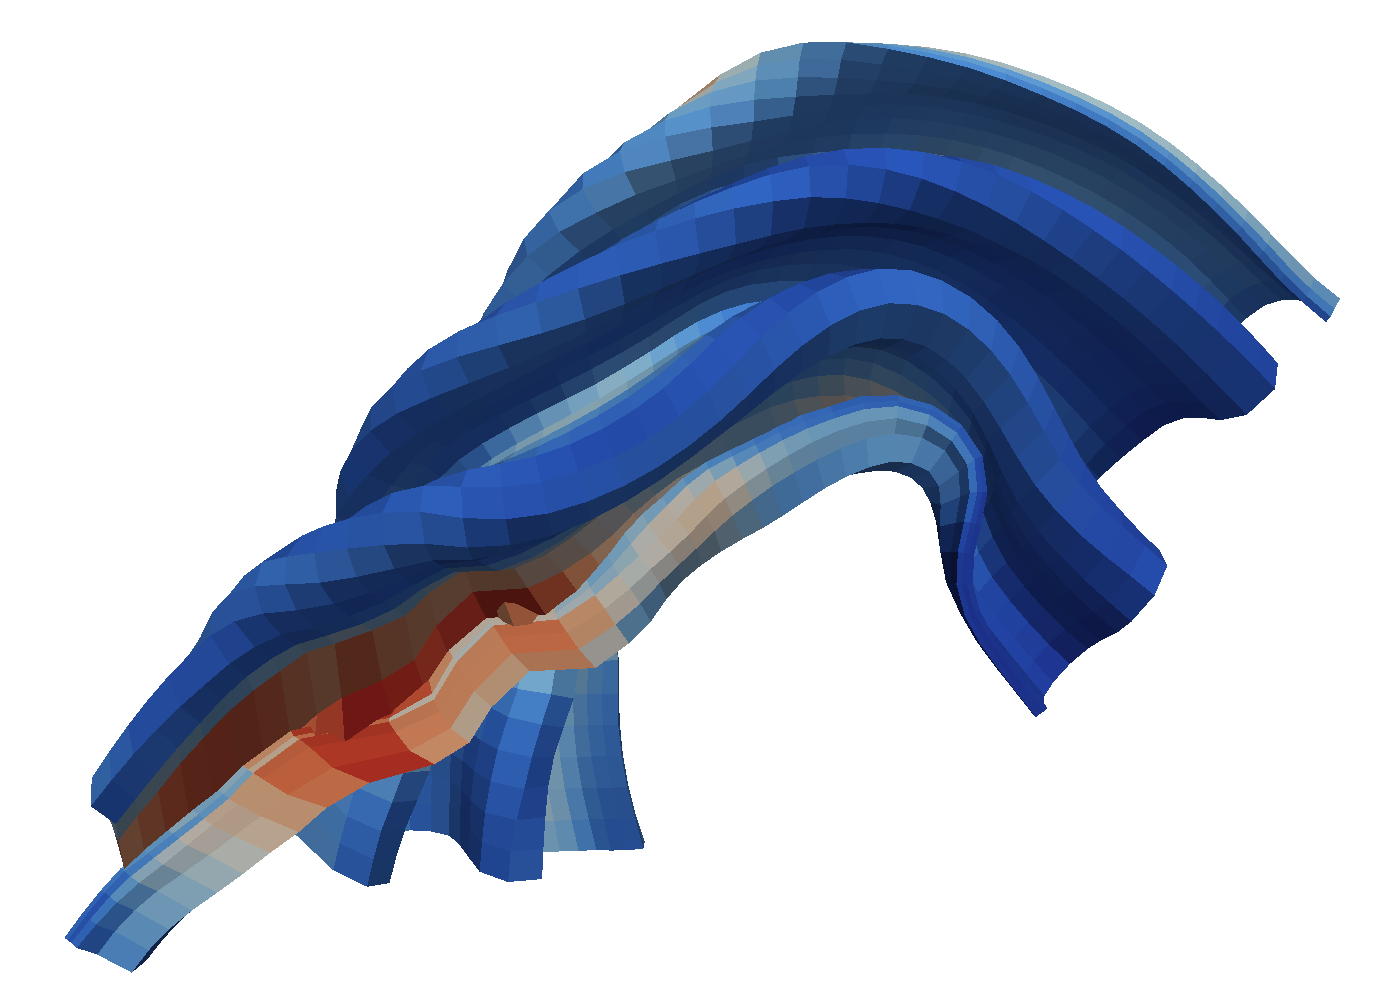
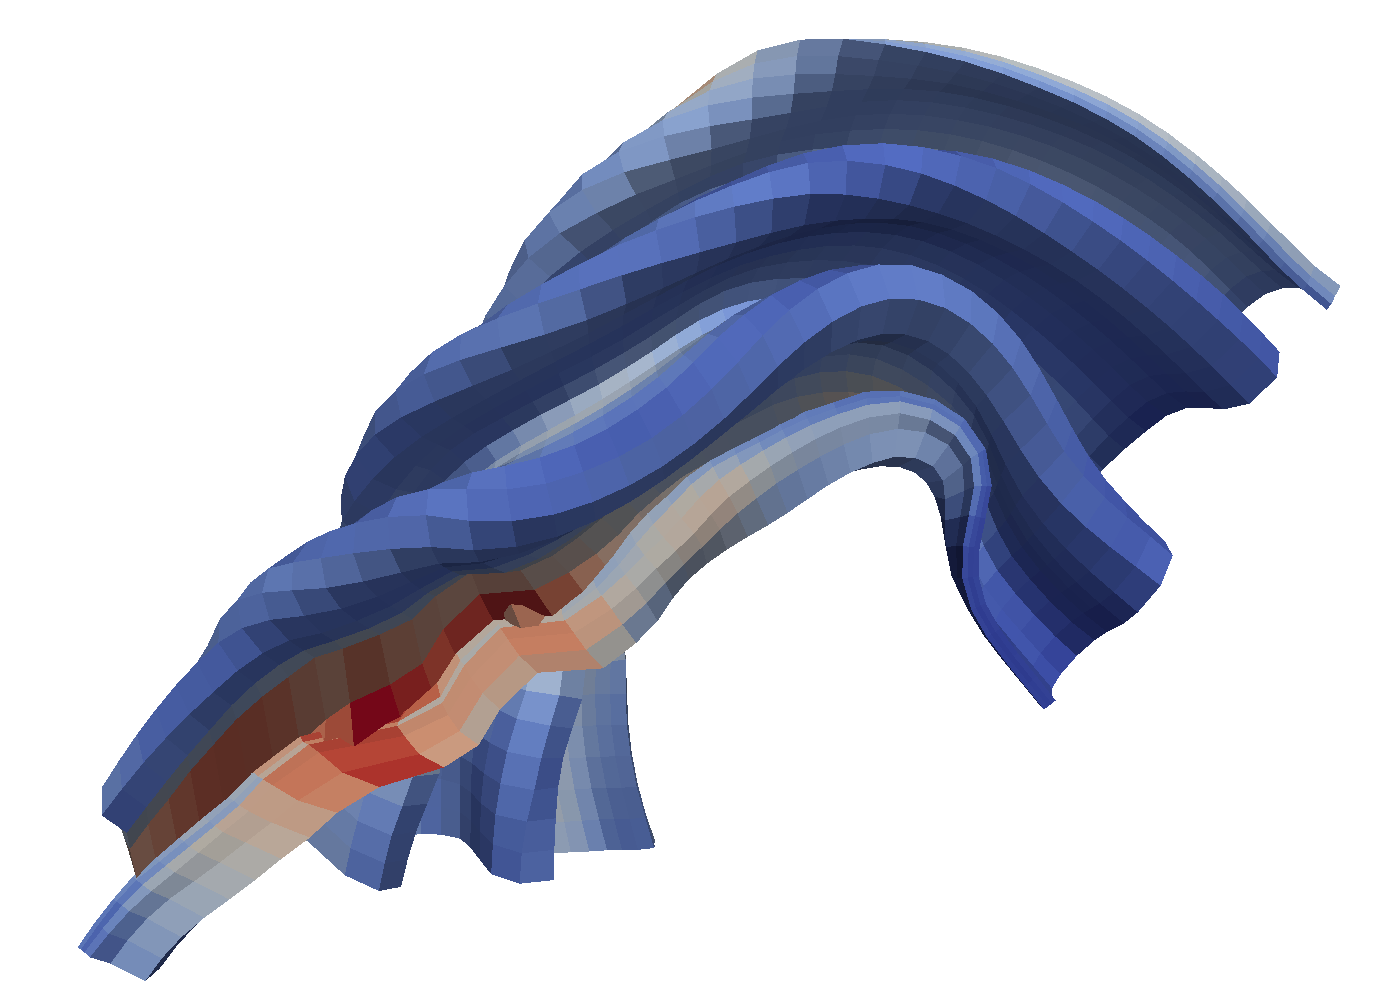
Fix can coloring images for CIELAB corrections.
git-svn-id: svn+ssh://vizrd.srn.sandia.gov/svnroot/kmorel/papers/ColorMaps/trunk@1156 61430140-fc74-48ae-be37-35807f1eb91a

Changed region(s): [[0.0307, 0.031, 0.9521, 0.992], [0.4914, 0.527, 0.5221, 0.558]]

diff --git a/ColorMaps.tex b/ColorMaps.tex
@@ -1098,8 +1098,7 @@ demonstrated in Figure~\ref{fig:ColorMapInteraction}.
     contrast sensitivity function, a low-frequency sensitivity function,
     high-frequency noise, an approximation of the color map viewed by
     someone with deuteranope color-deficient vision (computed with
-    Vischeck), and 3D shading.  \sticky{Fix 3D rendering of cool/warm and
-      isoluminant.}}
+    Vischeck), and 3D shading.}
   \label{fig:MapComparison}
 \end{figure*}
 
